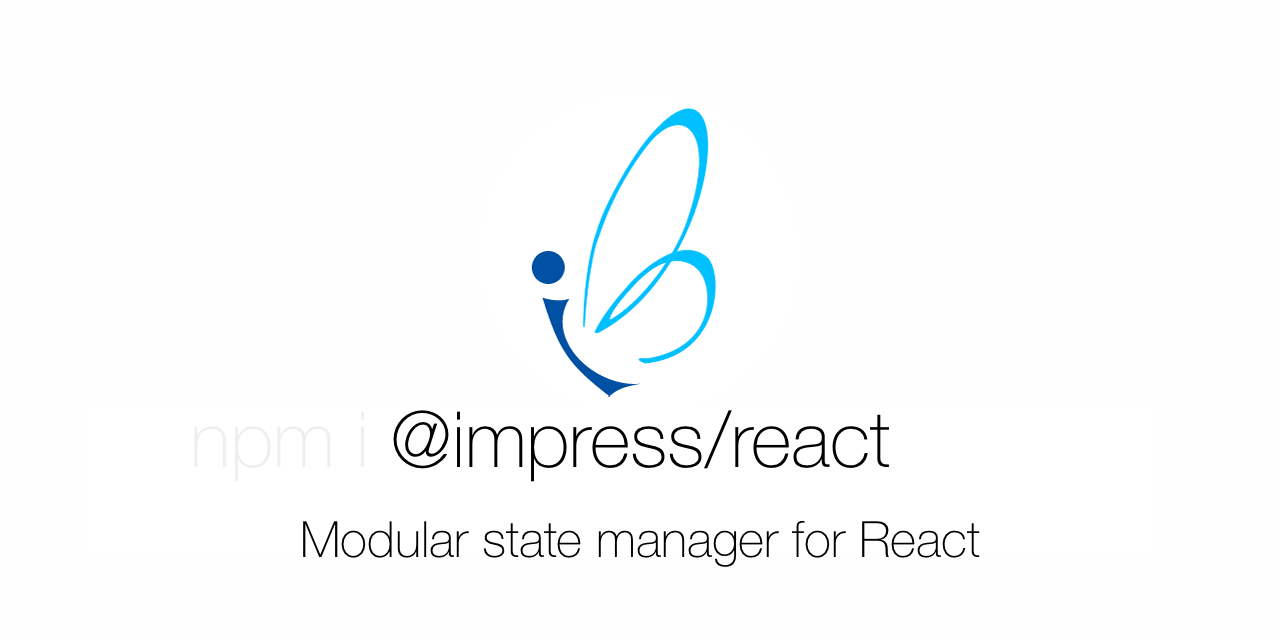
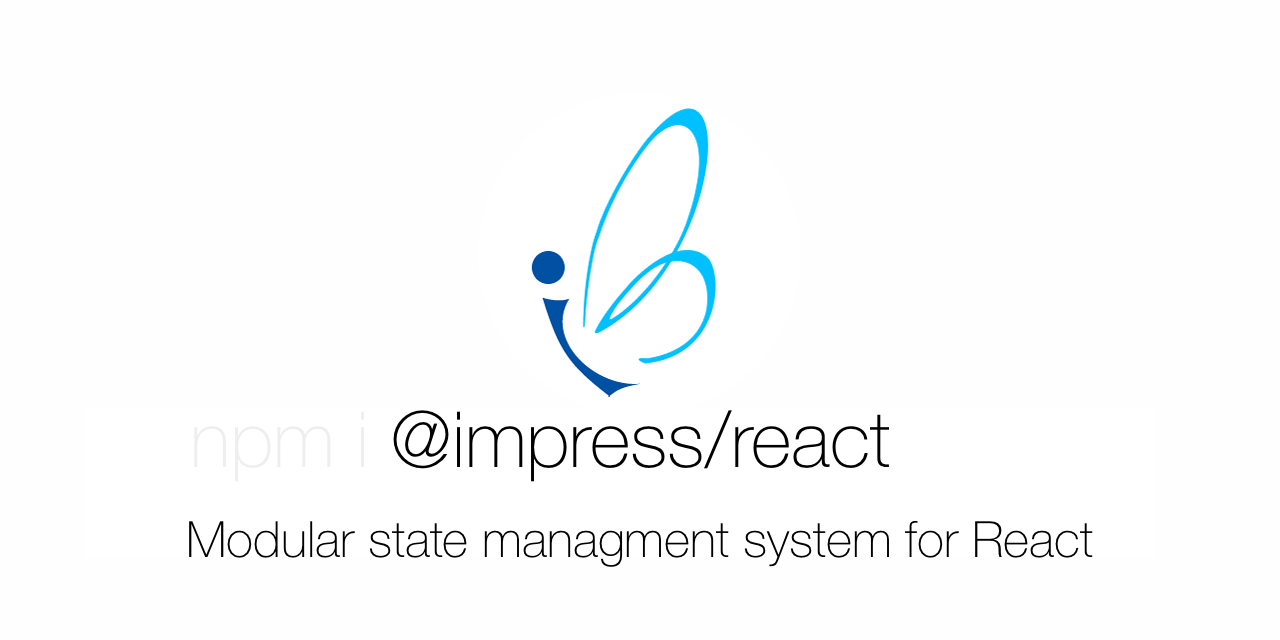
[description] Change description text

Changed region(s): [[0.125, 0.8125, 0.8438, 0.875]]

diff --git a/README.md b/README.md
@@ -4,7 +4,7 @@
 
 ![@impress/react logo](https://betula.github.io/impress/logo.png)
 
-Modular state manager for React
+Modular state management system for React
 
 [![npm](https://img.shields.io/npm/v/@impress/react?style=flat-square)](https://www.npmjs.com/package/@impress/react) ![npm type definitions](https://img.shields.io/npm/types/@impress/react?style=flat-square) [![npm bundle size](https://img.shields.io/bundlephobia/minzip/@impress/react?style=flat-square)](https://bundlephobia.com/result?p=@impress/react) [![build status](https://img.shields.io/github/workflow/status/betula/impress/Tests?style=flat-square)](https://github.com/betula/impress/actions?workflow=Tests) [![code coverage](https://img.shields.io/coveralls/github/betula/impress?style=flat-square)](https://coveralls.io/github/betula/impress)
 
@@ -37,14 +37,14 @@ const UserNameEditor = () => {
 
 ### Introduction
 
-Modular state manager for React. You can organize the code of your application by service-stores. Single instantiated classes with a store inside at any place of your app code.
+Multistore state manager with service ideology for React. You can organize the code of your application by service-stores. Single instantiated classes with a store inside at any place of your app code.
 
 - Service-oriented and multistore architecture
 - Update view components only dependent of changed stores
 - Data flow instruments
 - Server side rendering (SSR)
-- Possibility to make separated modules
-- Minimal abstraction,
+- Possibility to make independent modules
+- Minimal abstraction
 - Lightweight (~2Kb)
 - Minimum init page CPU time
 - Designed by React hooks coding style
@@ -56,7 +56,7 @@ Modular state manager for React. You can organize the code of your application b
 ### Examples
 
 - [Todos on CodeSandbox](https://codesandbox.io/s/github/betula/impress/tree/master/examples/todos)
-- [Server side rendering](https://github.com/betula/impress/tree/master/examples/ssr)
+- [Server side rendering example](https://github.com/betula/impress/tree/master/examples/ssr)
 
 ### License
 
